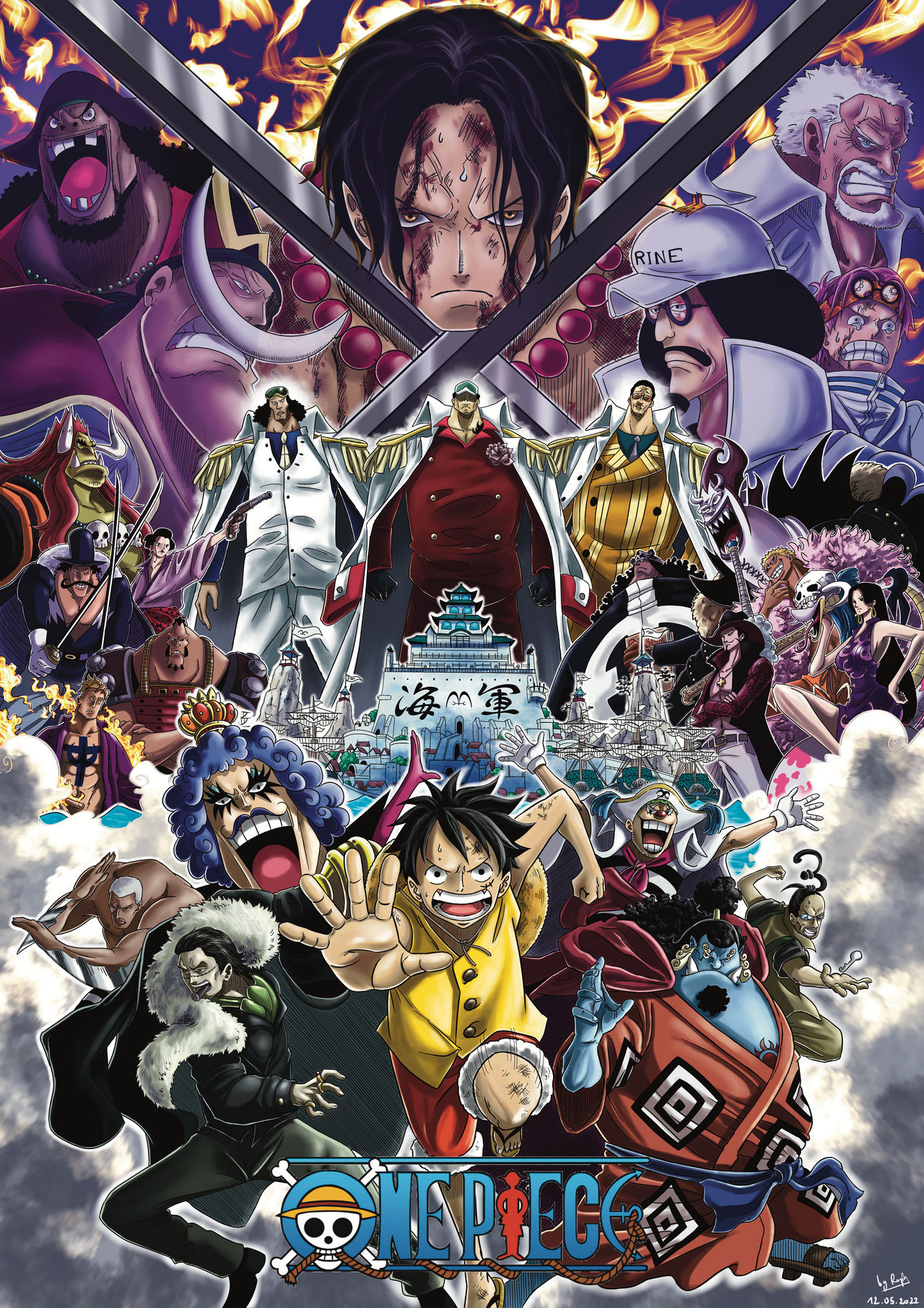
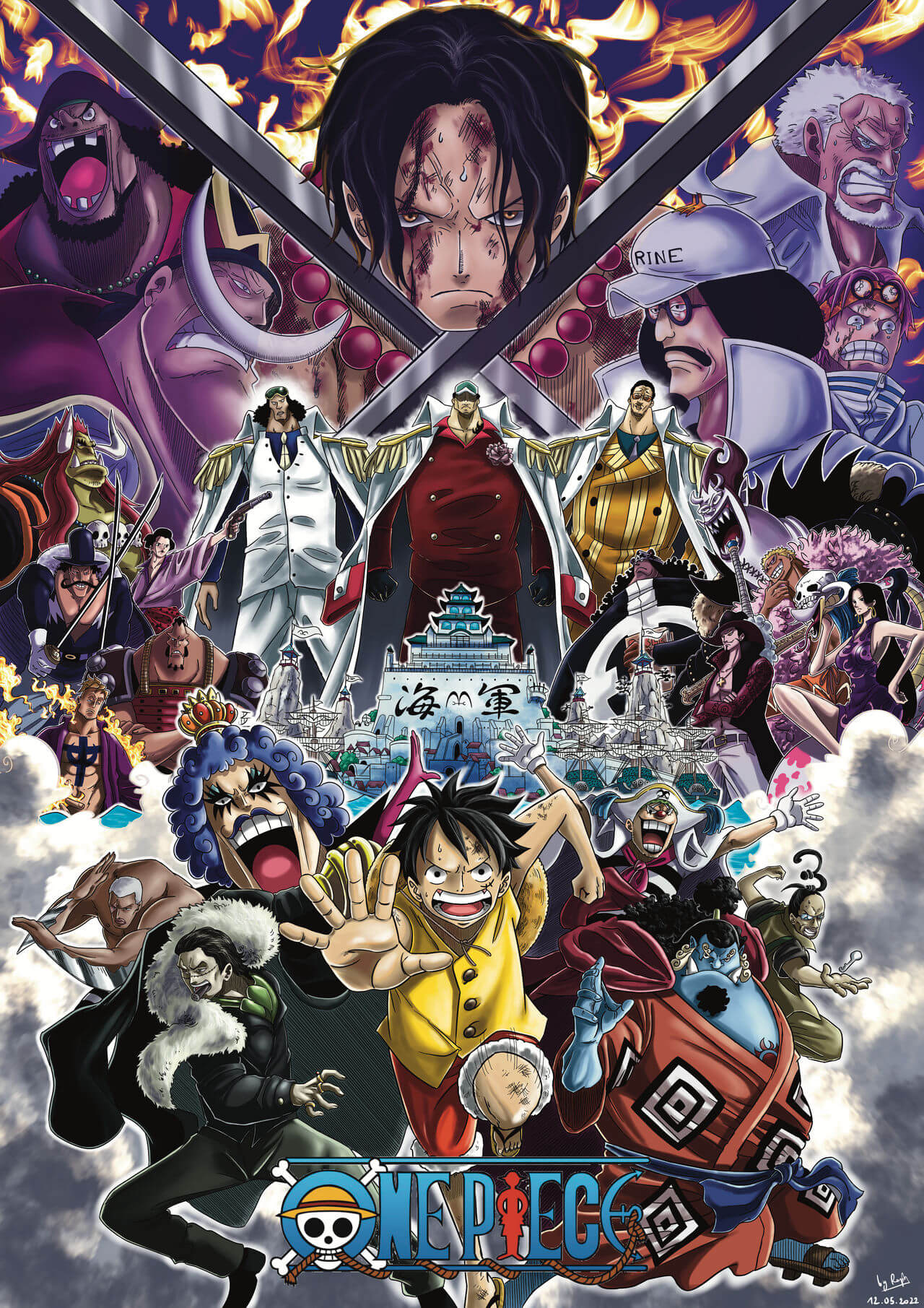
ajustes nas imagens

diff --git a/public/pages/sagas/index.html b/public/pages/sagas/index.html
@@ -16,7 +16,6 @@
                         <li><a href="../home/index.html">Home</a></li>
                         <li><a href="./index.html">Sagas</a></li>
                         <li><a href="../guia/index.html">Episódios Fillers</a></li>
-                        <li><a href="#">Sobre Mim</a></li>
                     </ul>
                 </nav>
             </div>
@@ -54,7 +53,7 @@
 
             <div class="about">
                 <div class="img">
-                    <img src="../../assets/images/posters_sagas/alabasta.jpg">
+                    <img src="../../assets/images/posters_sagas/alabasta.png">
                 </div>
                 <div class="description">
                     <h3>A Saga de Alabasta é a segunda saga da série de mangá e anime One Piece</h3>
@@ -112,7 +111,7 @@
 
             <div class="about">
                 <div class="img">
-                    <img src="../../assets/images/posters_sagas/thrillerbark.jpg">
+                    <img src="../../assets/images/posters_sagas/thrillerbark.png">
                 </div>
                 <div class="description">
                     <h3>A Saga de Thriller Bark é a quinta saga da série de mangá e anime One Piece</h3>
@@ -154,7 +153,7 @@
 
             <div class="about">
                 <div class="img">
-                    <img src="../../assets/images/posters_sagas/tritoes.jpg">
+                    <img src="../../assets/images/posters_sagas/tritoes.png">
                 </div>
                 <div class="description">
                     <h3>A Saga da ilha dos Homem-Peixe é a setima saga da série de mangá e anime One Piece</h3>
@@ -214,11 +213,11 @@
 
             <div class="about">
                 <div class="img">
-                    <img src="../../assets/images/posters_sagas/egghead.jpg">
+                    <img src="../../assets/images/posters_sagas/egghead.png">
                 </div>
                 <div class="description">
                     <h3>A Saga final é a decima e ultima saga da série de mangá e anime One Piece</h3>
-                    <p></p>
+                    <p><b>Arco Egghead</b>: os Piratas do Chapéu de Palha, seguindo seu Log Pose, chegam à misteriosa e futurística ilha EggHead, onde reside o super gênio cientista Dr. Vegapunk. No entanto, após ser informado da pesquisa de Vegapunk sobre o Século Perdido, o Governo Mundial decide assassiná-lo, enviando uma equipe da CP-0 que inclui dois agentes com os quais os Chapéus de Palha já lidaram antes.</p>
                 </div>
             </div>
 

diff --git a/public/pages/home/index.html b/public/pages/home/index.html
@@ -17,7 +17,6 @@
                         <li><a href="./index.html">Home</a></li>
                         <li><a href="../sagas/index.html">Sagas</a></li>
                         <li><a href="../guia/index.html">Episódios Fillers</a></li>
-                        <li><a href="#">Sobre Mim</a></li>
                     </ul>
                 </nav>
             </div>
@@ -118,7 +117,7 @@
 
                 <div class="sign">
                     <h3>FAÇA SEU CADASTRO</h3>
-                    <p>Faça seu cadastro e registre sua jornada assistindo One Piece analisando uma dashboard com informações sobre os episódios que esteja assistindo atualmente, tempo gasto assistindo episódios, futuros arcos para assistir, etc.</p>
+                    <p>Faça seu cadastro e veja uma dashboard com informações sobre quantos episódios faltam assistir até o ultimo episodios, tempo gasto assistindo episódios, quanto tempo falta para chegar ao ultimo episodio.</p>
                     <button onclick="trocarPagina(1)">Cadastrar</button>
                 </div>
 

diff --git a/public/pages/home/style.css b/public/pages/home/style.css
@@ -59,11 +59,11 @@ header {
     width: 0;
     height: 2px;
     background-color: #FFFFFF;
+    transition: ease-in-out 0.5s;
 }
 
 .navbar ul li a:hover::after {
     width: 100%;
-    transition: ease-in-out 0.5s;
 }
 
 main {
@@ -427,7 +427,7 @@ main .summary {
     display: flex;
     flex-direction: column;
     width: 355px;
-    background-image: url('../../assets/images/posters_sagas/alabasta.jpg');
+    background-image: url('../../assets/images/posters_sagas/alabasta.png');
     background-size: cover;
     border-radius: 20px;
     box-shadow: 0 0 25px 0 rgba(000, 000, 000, 75%);

diff --git a/public/pages/guia/index.html b/public/pages/guia/index.html
@@ -17,7 +17,6 @@
                         <li><a href="../home/index.html">Home</a></li>
                         <li><a href="../sagas/index.html">Sagas</a></li>
                         <li><a href="../guia/index.html">Episódios Fillers</a></li>
-                        <li><a href="#">Sobre Mim</a></li>
                     </ul>
                 </nav>
             </div>

diff --git a/public/pages/cadastro/index.html b/public/pages/cadastro/index.html
@@ -14,7 +14,6 @@
             <li><a href="../home/index.html">Home</a></li>
             <li><a href="../sagas/index.html">Sagas</a></li>
             <li><a href="../guia/index.html">Episódios Fillers</a></li>
-            <li><a href="#">Sobre Mim</a></li>
         </ul>
     </header>
 

diff --git a/public/pages/login/index.html b/public/pages/login/index.html
@@ -14,7 +14,6 @@
             <li><a href="../home/index.html">Home</a></li>
             <li><a href="../sagas/index.html">Sagas</a></li>
             <li><a href="../guia/index.html">Episódios Fillers</a></li>
-            <li><a href="#">Sobre Mim</a></li>
         </ul>
     </header>
 
